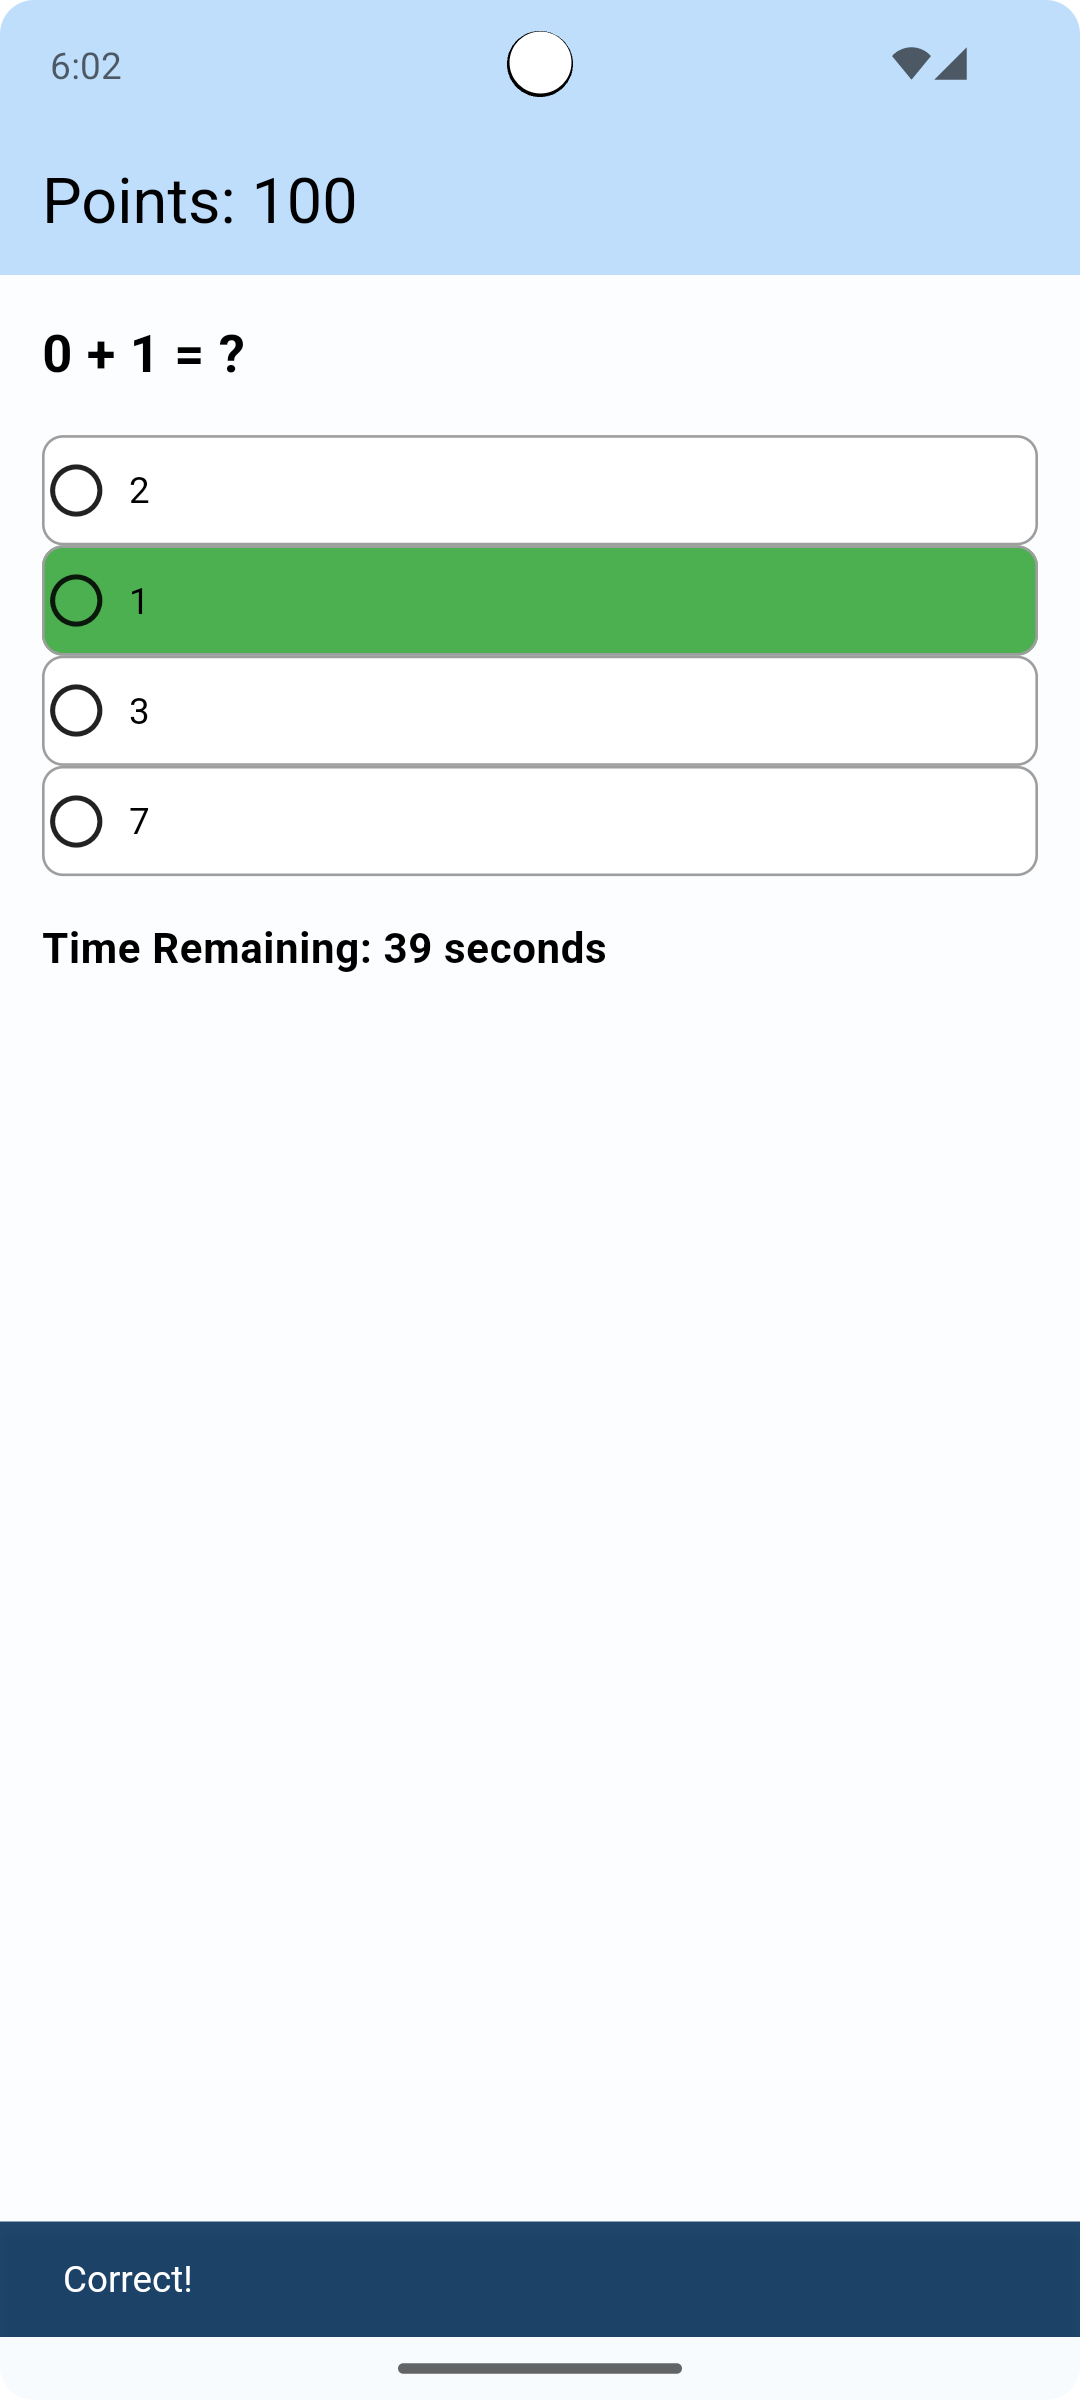
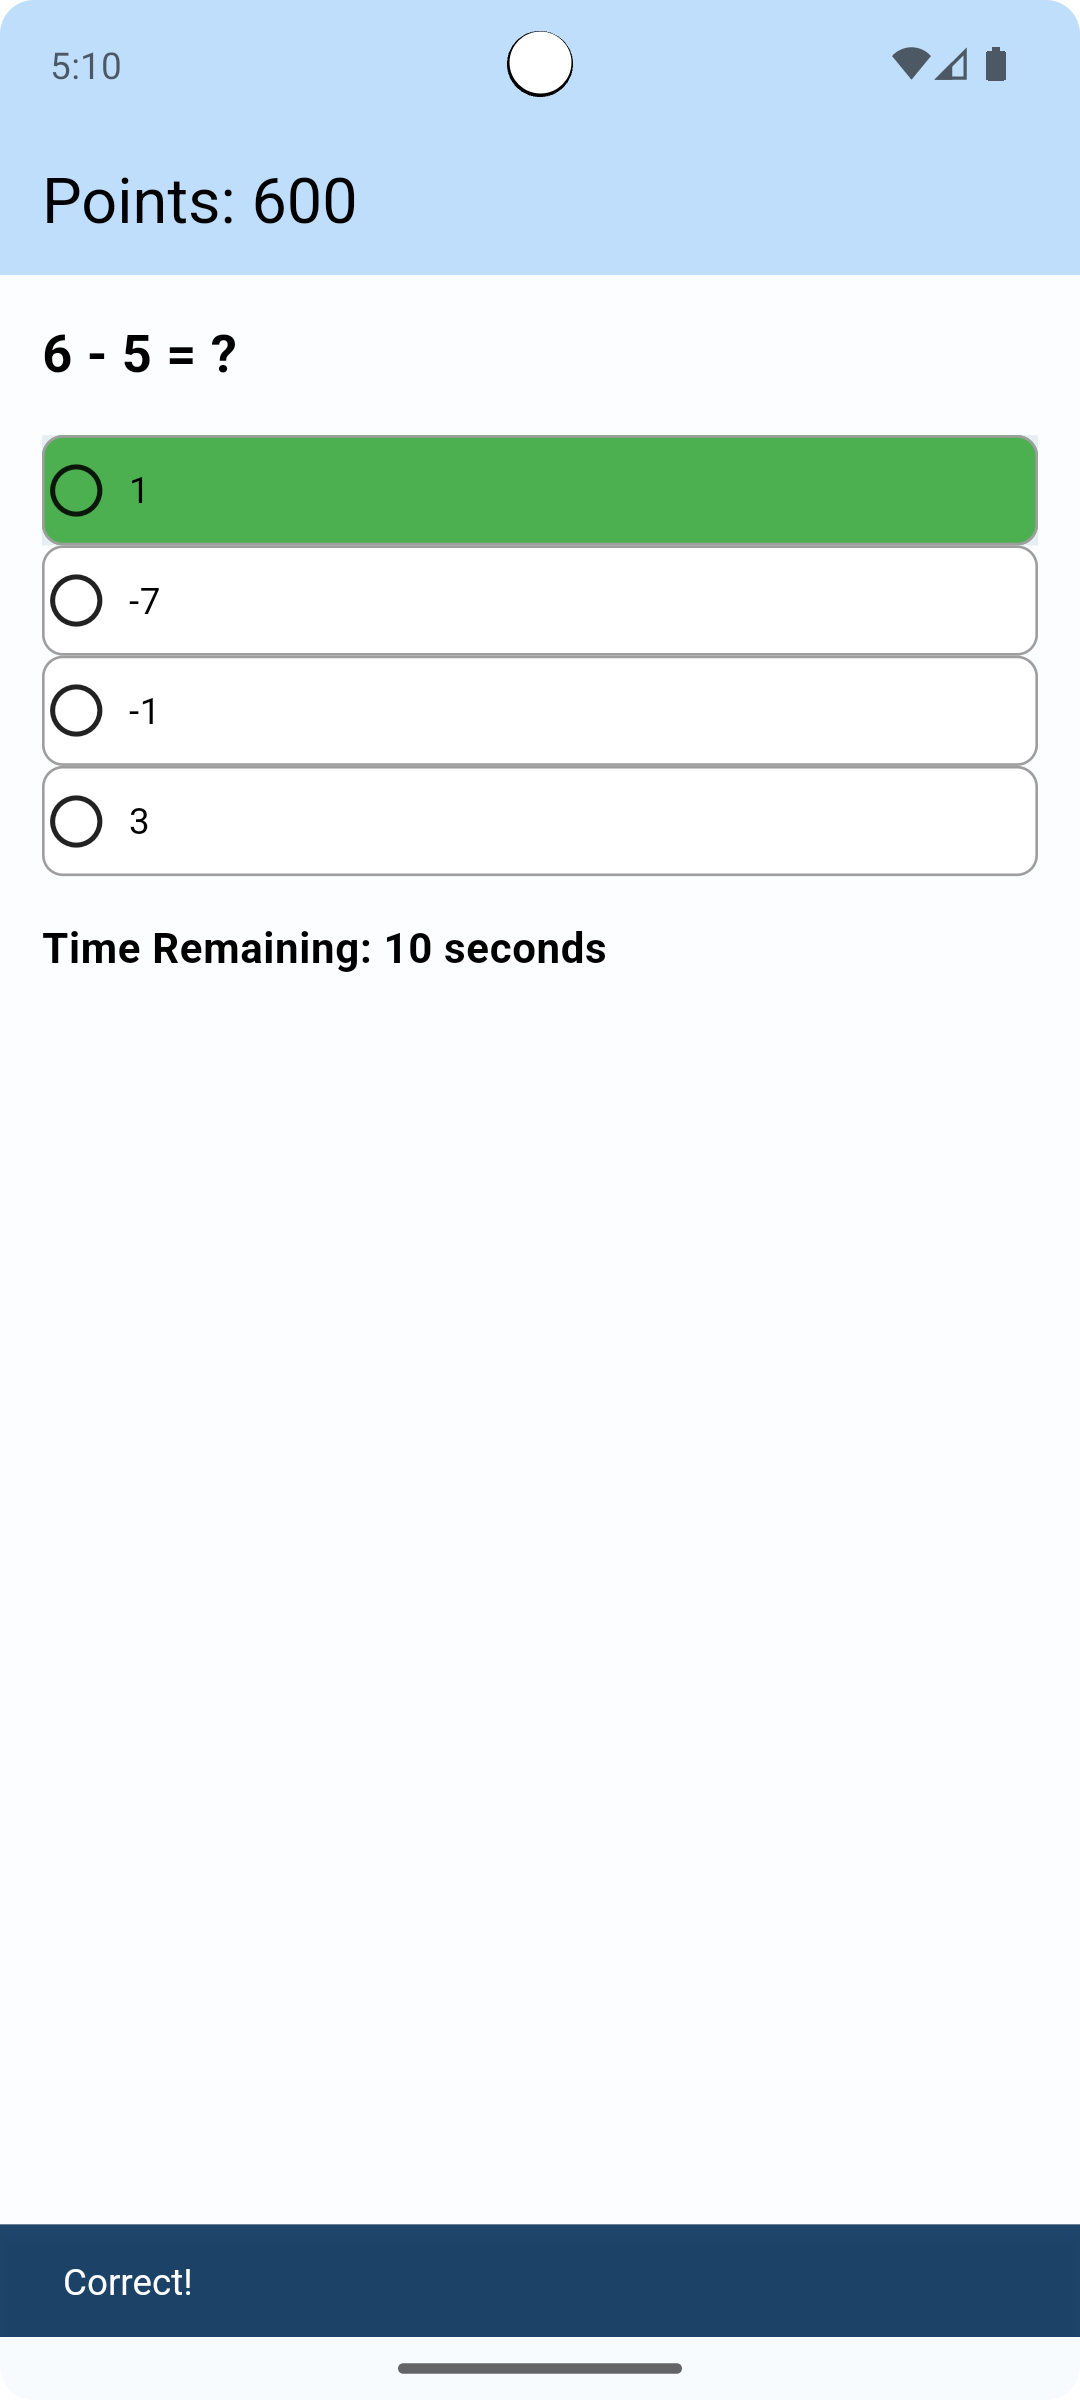
added subtraction questions

diff --git a/math_matchup/lib/src/features/question_page/domain/questions_notifier.dart b/math_matchup/lib/src/features/question_page/domain/questions_notifier.dart
@@ -3,7 +3,7 @@
 /*
  * Copyright (c) 2024 by Brendan Haran, All Rights Reserved.
  * Use of this file or any of its contents is strictly prohibited without prior written permission from Brendan Haran.
- * Current File (questions_notifier.dart) Last Modified on 6/25/24, 5:07 PM
+ * Current File (questions_notifier.dart) Last Modified on 6/25/24, 8:22 PM
  *
  */
 
@@ -11,22 +11,25 @@ import 'dart:async';
 
 import 'package:flutter/material.dart';
 import 'package:flutter_riverpod/flutter_riverpod.dart';
+import 'package:math_matchup/src/features/question_page/data/subtraction_question.dart';
 
 import '../../game_settings_page/presentation/game_settings_page.dart';
 import '../data/addition_question.dart';
+import '../data/question.dart';
 import '../presentation/questions_page.dart';
+import '../repository/question_type_switcher.dart';
 
-final questionsProvider = StateNotifierProvider<QuestionsNotifier, List<AdditionQuestion>>((ref) => QuestionsNotifier());
+final questionsProvider = StateNotifierProvider<QuestionsNotifier, List<Question>>((ref) => QuestionsNotifier());
 final playerPointsProvider = StateProvider<int>((ref) => 0);
 final timerCompleteProvider = StateProvider<bool>((ref) => false);
 
 final currentQuestionIndexProvider = StateProvider<int>((ref) => 0);
 
-final currentQuestionProvider = Provider<AdditionQuestion>((ref) {
+final currentQuestionProvider = Provider<Question>((ref) {
   final questions = ref.watch(questionsProvider);
   final currentQuestionIndex = ref.watch(currentQuestionIndexProvider);
 
-  return questions.isNotEmpty ? questions[currentQuestionIndex] : AdditionQuestion(
+  return questions.isNotEmpty ? questions[currentQuestionIndex] : Question(
     question: 'No questions available',
     answerChoices: ['An error Occurred', 'hi', 'hello', 'hola'],
     correctAnswer: '',
@@ -75,11 +78,10 @@ final countdownProvider = StateNotifierProvider<CountdownNotifier, int>((ref) {
 final isAnsweringProvider = StateProvider<bool>((ref) => false);
 
 /// Gets the selected answer that the user clicks while also providing short delays and incorrect answer penalties so the user cannot rush through
-class QuestionsNotifier extends StateNotifier<List<AdditionQuestion>> {
+class QuestionsNotifier extends StateNotifier<List<Question>> {
   QuestionsNotifier() : super([]);
-
   void generateQuestions({required int totalQuestions, required WidgetRef ref}) {
-    final questions = List.generate(totalQuestions, (_) => generateAdditionQuestion(ref));
+    final questions = List.generate(totalQuestions, (_) => generateQuestion(ref));
     state = questions;
   }
 
@@ -87,10 +89,9 @@ class QuestionsNotifier extends StateNotifier<List<AdditionQuestion>> {
     ref.read(playerPointsProvider.notifier).state += amount;
   }
 
- void checkAnswer(String selectedAnswer, WidgetRef ref, AdditionQuestion currentQuestion, BuildContext context) {
+ void checkAnswer(String selectedAnswer, WidgetRef ref, Question currentQuestion, BuildContext context) {
   var currentQuestionIndex = ref.read(currentQuestionIndexProvider);
   if (ref.read(isAnsweringProvider.notifier).state) {
-    // If already answering, ignore this answer
     return;
   }
 

diff --git a/math_matchup/lib/src/features/question_page/data/subtraction_question.dart b/math_matchup/lib/src/features/question_page/data/subtraction_question.dart
@@ -1,39 +1,32 @@
 /*
  * Copyright (c) 2024 by Brendan Haran, All Rights Reserved.
  * Use of this file or any of its contents is strictly prohibited without prior written permission from Brendan Haran.
- * Current File (addition_question.dart) Last Modified on 6/25/24, 8:22 PM
+ * Current File (subtraction_question.dart) Last Modified on 6/26/24, 4:53 PM
  *
  */
 
 import 'dart:math';
 
 import 'package:flutter_riverpod/flutter_riverpod.dart';
-import 'package:math_matchup/src/features/game_settings_page/presentation/game_settings_page.dart';
 import 'package:math_matchup/src/features/question_page/data/question.dart';
+import '../../game_settings_page/presentation/game_settings_page.dart';
 
-
-
-/// Generates an addition question based on multiple teacher-defined factors
-///
-/// Takes into account the selected difficulty level and generates a question
-/// Keeps answers believable by ensuring they are within a certain range of the correct answer
-Question generateAdditionQuestion(WidgetRef ref) {
+Question generateSubtractionQuestion(WidgetRef ref) {
   final difficulty = ref.read(selectedDifficultyProvider.notifier).state;
   final digitsPerNumber = difficulty == "Easy" ? 1 :
-         difficulty == "Medium" ? 2 :
-         difficulty == "Hard" ? 3 :
-         difficulty == "Impossible" ? 4
-           : 1; //default to easy
+  difficulty == "Medium" ? 2 :
+  difficulty == "Hard" ? 3 :
+  difficulty == "Impossible" ? 4
+      : 1; //default to easy
   int maxNumber = 10;
   //maxNumber is the max distance from the correct answer that the incorrect answers can be
   final random = Random();
-
   // Generate two random numbers
   final num1 = random.nextInt(pow(10, digitsPerNumber).toInt());
   final num2 = random.nextInt(pow(10, digitsPerNumber).toInt());
 
   // Calculate the answer to the question
-  final correctAnswer = (num1 + num2).toString();
+  final correctAnswer = (num1 - num2).toString();
 
   // Generate three other believable incorrect answers that are MaxNumber away from the correct answer
   List<String> answerChoices = [];
@@ -50,11 +43,12 @@ Question generateAdditionQuestion(WidgetRef ref) {
   answerChoices..add(correctAnswer)..shuffle();
 
   // Create the question that's displayed
-  final question = '$num1 + $num2 = ?';
+  final question = '$num1 - $num2 = ?';
 
   return Question(
     question: question,
     answerChoices: answerChoices,
     correctAnswer: correctAnswer,
   );
+
 }

diff --git a/math_matchup/lib/src/features/homescreen/presentation/homescreen.dart b/math_matchup/lib/src/features/homescreen/presentation/homescreen.dart
@@ -1,7 +1,7 @@
 /*
  * Copyright (c) 2024 by Brendan Haran, All Rights Reserved.
  * Use of this file or any of its contents is strictly prohibited without prior written permission from Brendan Haran.
- * Current File (homescreen.dart) Last Modified on 6/25/24, 5:50 PM
+ * Current File (homescreen.dart) Last Modified on 6/25/24, 8:03 PM
  *
  */
 
@@ -189,8 +189,7 @@ class _HomeScreenState extends ConsumerState<HomeScreen> {
 
                       ref.read(gameCodeProvider.notifier).state = gameCodeController.text;
                       print("Code:${ref.read(gameCodeProvider.notifier).state}");
-                      context.go('/game/123456/play');
-                  //    _onJoinGamePressed(gameCodeController.text, nameController.text, context);
+                      _onJoinGamePressed(gameCodeController.text, nameController.text, context);
                     },
                     child: Text(S.of(context).joinGame, style: TextStyle(fontSize: 22, fontWeight: FontWeight.bold, color: textTheme.headlineLarge?.color,),),
                   ),

diff --git a/math_matchup/lib/src/features/question_page/repository/question_type_switcher.dart b/math_matchup/lib/src/features/question_page/repository/question_type_switcher.dart
@@ -1,0 +1,24 @@
+/*
+ * Copyright (c) 2024 by Brendan Haran, All Rights Reserved.
+ * Use of this file or any of its contents is strictly prohibited without prior written permission from Brendan Haran.
+ * Current File (question_type_switcher.dart) Last Modified on 6/26/24, 5:11 PM
+ *
+ */
+
+import 'package:flutter_riverpod/flutter_riverpod.dart';
+import '../../game_settings_page/presentation/game_settings_page.dart';
+import '../data/addition_question.dart';
+import '../data/question.dart';
+import '../data/subtraction_question.dart';
+
+ Question generateQuestion(WidgetRef ref) {
+   var questionType = ref.read(selectedQuestionTypeProvider.notifier).state;
+
+    if (questionType == 'Addition') {
+      return generateAdditionQuestion(ref);
+    } else if (questionType == 'Subtraction') {
+      return generateSubtractionQuestion(ref);
+    } else {
+      return generateAdditionQuestion(ref);
+    }
+ }

diff --git a/math_matchup/lib/src/features/question_page/data/question.dart b/math_matchup/lib/src/features/question_page/data/question.dart
@@ -1,0 +1,18 @@
+/*
+ * Copyright (c) 2024 by Brendan Haran, All Rights Reserved.
+ * Use of this file or any of its contents is strictly prohibited without prior written permission from Brendan Haran.
+ * Current File (question.dart) Last Modified on 6/26/24, 4:54 PM
+ *
+ */
+/// Class to represent a question
+class Question {
+  String question;
+  List<String> answerChoices;
+  String correctAnswer;
+
+  Question({
+    required this.question,
+    required this.answerChoices,
+    required this.correctAnswer,
+  });
+}

diff --git a/math_matchup/lib/src/utils/page_not_found_screen.dart b/math_matchup/lib/src/utils/page_not_found_screen.dart
@@ -1,7 +1,7 @@
 /*
  * Copyright (c) 2024 by Brendan Haran, All Rights Reserved.
  * Use of this file or any of its contents is strictly prohibited without prior written permission from Brendan Haran.
- * Current File (page_not_found_screen.dart) Last Modified on 6/24/24, 9:42 PM
+ * Current File (page_not_found_screen.dart) Last Modified on 6/25/24, 7:31 PM
  *
  */
 import 'package:flutter/material.dart';

diff --git a/math_matchup/lib/src/features/game_settings_page/presentation/game_settings_page.dart b/math_matchup/lib/src/features/game_settings_page/presentation/game_settings_page.dart
@@ -1,7 +1,7 @@
 /*
  * Copyright (c) 2024 by Brendan Haran, All Rights Reserved.
  * Use of this file or any of its contents is strictly prohibited without prior written permission from Brendan Haran.
- * Current File (game_settings_page.dart) Last Modified on 6/25/24, 5:07 PM
+ * Current File (game_settings_page.dart) Last Modified on 6/25/24, 7:52 PM
  *
  */
 import 'package:flutter/material.dart';

diff --git a/math_matchup/lib/src/common_widgets/custom_dropdown.dart b/math_matchup/lib/src/common_widgets/custom_dropdown.dart
@@ -1,7 +1,7 @@
 /*
  * Copyright (c) 2024 by Brendan Haran, All Rights Reserved.
  * Use of this file or any of its contents is strictly prohibited without prior written permission from Brendan Haran.
- * Current File (custom_dropdown.dart) Last Modified on 6/25/24, 5:07 PM
+ * Current File (custom_dropdown.dart) Last Modified on 6/25/24, 7:43 PM
  *
  */
 import 'package:flutter/material.dart';

diff --git a/math_matchup/lib/src/features/leaderboard/presentation/scoring_page.dart b/math_matchup/lib/src/features/leaderboard/presentation/scoring_page.dart
@@ -1,7 +1,7 @@
 /*
  * Copyright (c) 2024 by Brendan Haran, All Rights Reserved.
  * Use of this file or any of its contents is strictly prohibited without prior written permission from Brendan Haran.
- * Current File (scoring_page.dart) Last Modified on 6/24/24, 9:42 PM
+ * Current File (scoring_page.dart) Last Modified on 6/25/24, 8:03 PM
  *
  */
 import 'package:flutter/material.dart';

diff --git a/math_matchup/lib/src/features/leaderboard/domain/scoring_countdown_notifier.dart b/math_matchup/lib/src/features/leaderboard/domain/scoring_countdown_notifier.dart
@@ -1,7 +1,7 @@
 /*
  * Copyright (c) 2024 by Brendan Haran, All Rights Reserved.
  * Use of this file or any of its contents is strictly prohibited without prior written permission from Brendan Haran.
- * Current File (scoring_countdown_notifier.dart) Last Modified on 6/24/24, 9:42 PM
+ * Current File (scoring_countdown_notifier.dart) Last Modified on 6/25/24, 8:03 PM
  *
  */
 

diff --git a/math_matchup/lib/src/features/teacher_countdown/domain/teacher_countdown_notifier.dart b/math_matchup/lib/src/features/teacher_countdown/domain/teacher_countdown_notifier.dart
@@ -1,7 +1,7 @@
 /*
  * Copyright (c) 2024 by Brendan Haran, All Rights Reserved.
  * Use of this file or any of its contents is strictly prohibited without prior written permission from Brendan Haran.
- * Current File (teacher_countdown_notifier.dart) Last Modified on 6/24/24, 9:42 PM
+ * Current File (teacher_countdown_notifier.dart) Last Modified on 6/25/24, 8:22 PM
  *
  */
 

diff --git a/math_matchup/lib/src/features/game_page/presentation/student_game_page.dart b/math_matchup/lib/src/features/game_page/presentation/student_game_page.dart
@@ -1,7 +1,7 @@
 /*
  * Copyright (c) 2024 by Brendan Haran, All Rights Reserved.
  * Use of this file or any of its contents is strictly prohibited without prior written permission from Brendan Haran.
- * Current File (student_game_page.dart) Last Modified on 6/24/24, 9:42 PM
+ * Current File (student_game_page.dart) Last Modified on 6/25/24, 7:49 PM
  *
  */
 
